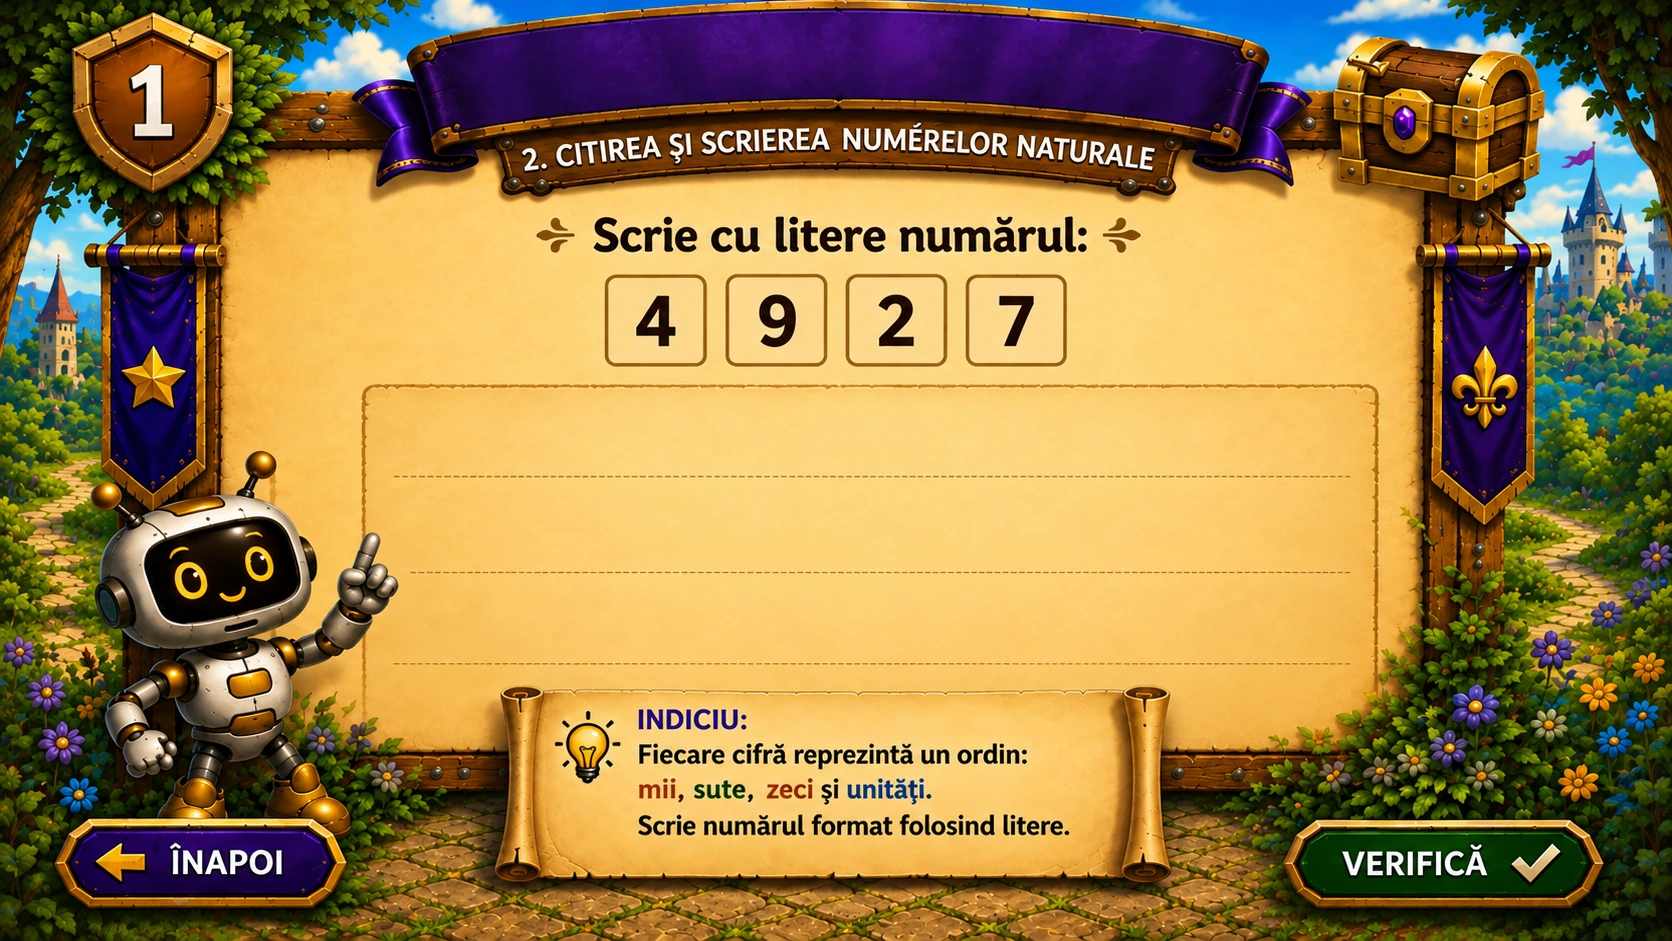
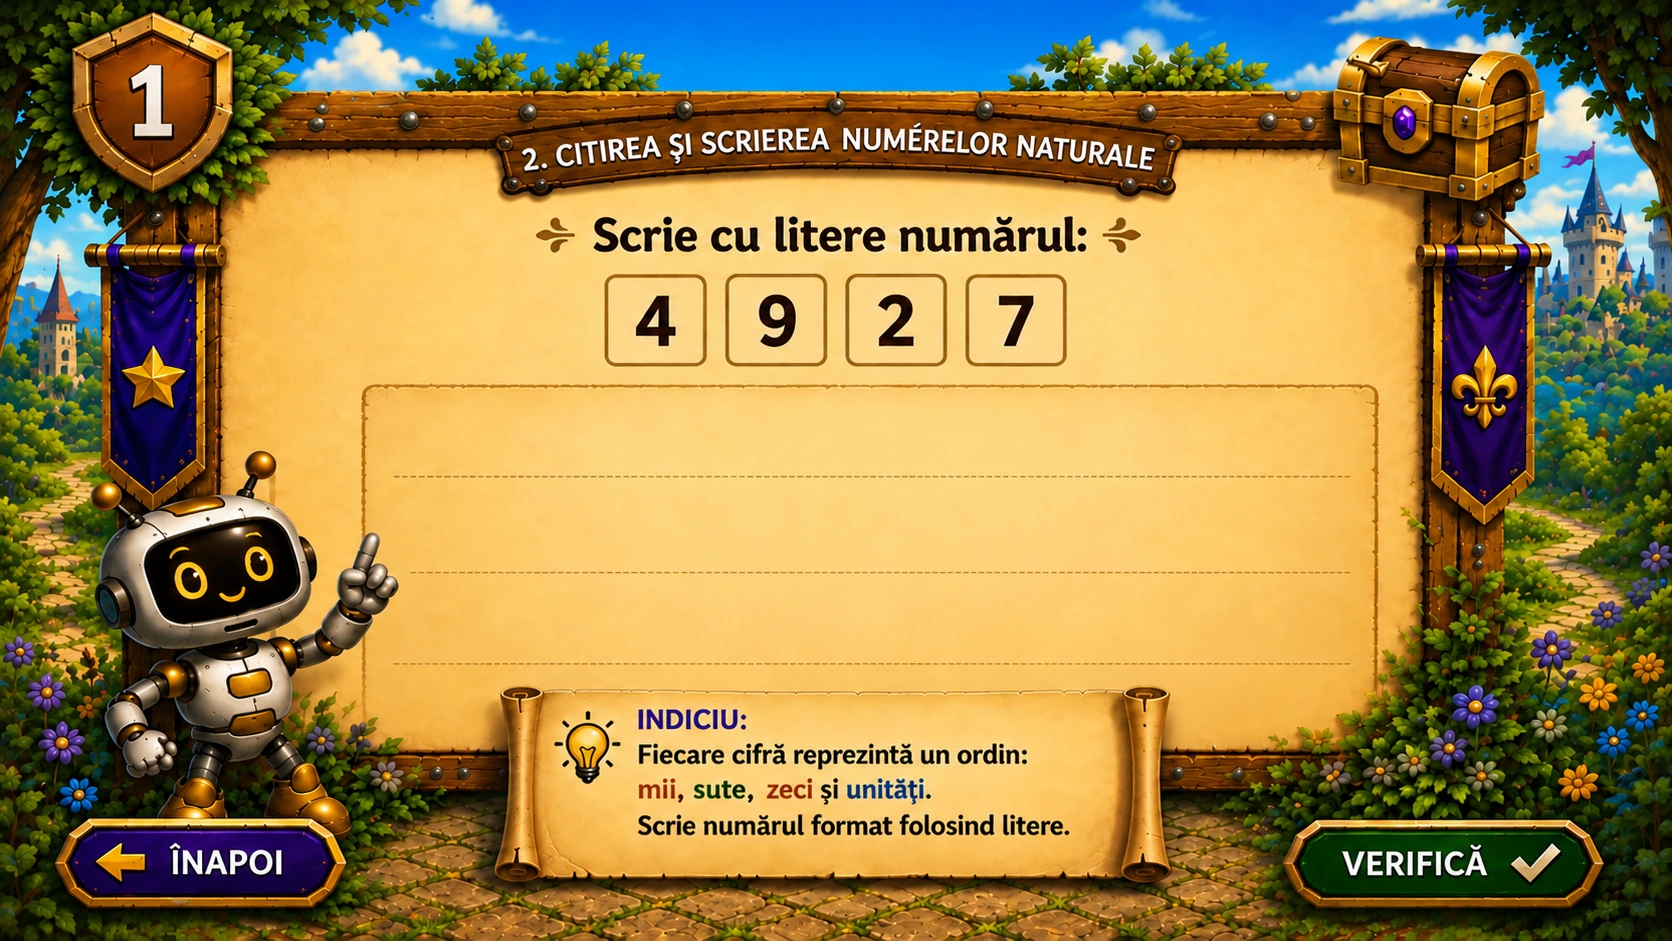
Remove entire blank purple ribbons from lesson 2 chests 1–3

diff --git a/index.html b/index.html
@@ -71,9 +71,9 @@
 
 <section id="reading-exercise-page" hidden aria-label="Lecția 2, lădița 1 — Scrie cu litere numărul 4927">
  <div class="map-scroll" tabindex="0" role="region" aria-label="Exercițiu de scriere a numărului cu litere"><div class="reading-exercise-art">
-  <img id="reading-exercise-image" src="./assets/citirea-ladita1.webp" width="1672" height="941" alt="Scrie cu litere numărul 4927. Fiecare cifră reprezintă un ordin: mii, sute, zeci și unități.">
-  <img id="reading-exercise-source-2" hidden src="./assets/citirea-ladita2.webp" alt="">
-  <img id="reading-exercise-source-3" hidden src="./assets/citirea-ladita3.webp" alt="">
+  <img id="reading-exercise-image" src="./assets/citirea-ladita1.webp?v=2" width="1672" height="941" alt="Scrie cu litere numărul 4927. Fiecare cifră reprezintă un ordin: mii, sute, zeci și unități.">
+  <img id="reading-exercise-source-2" hidden src="./assets/citirea-ladita2.webp?v=2" alt="">
+  <img id="reading-exercise-source-3" hidden src="./assets/citirea-ladita3.webp?v=2" alt="">
   <form id="reading-form" novalidate autocomplete="off">
    <textarea id="reading-answer" maxlength="500" aria-label="Scrie cu litere numărul 4927" autocomplete="off" autocapitalize="sentences" spellcheck="false"></textarea>
    <button id="reading-check" type="submit" aria-label="Verifică răspunsul"></button>
